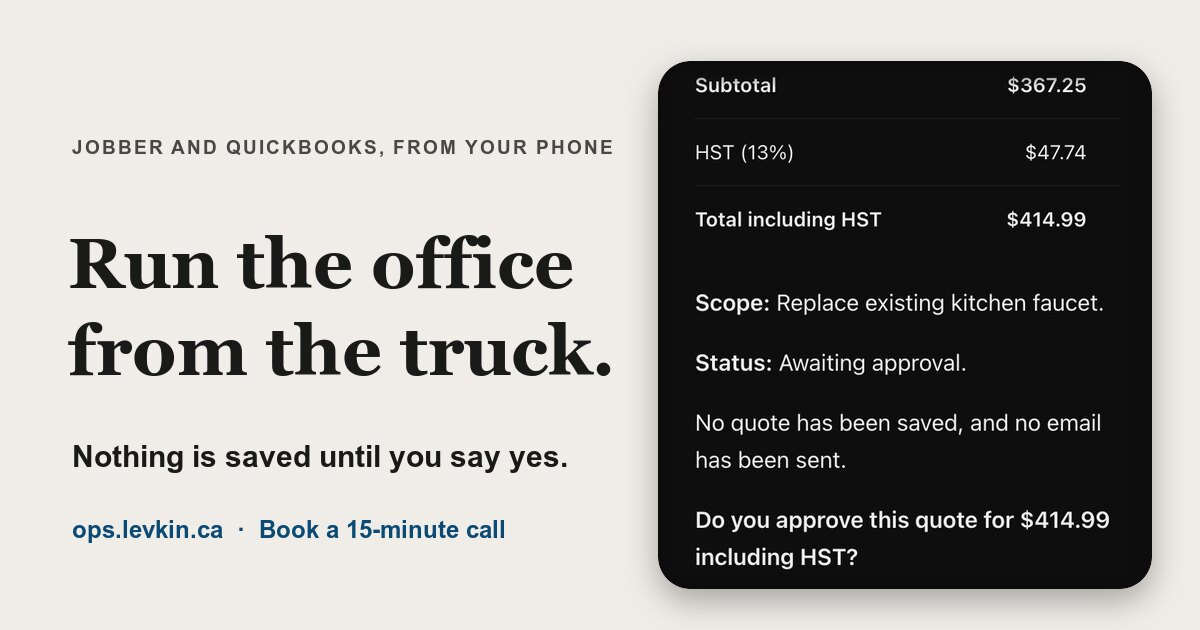
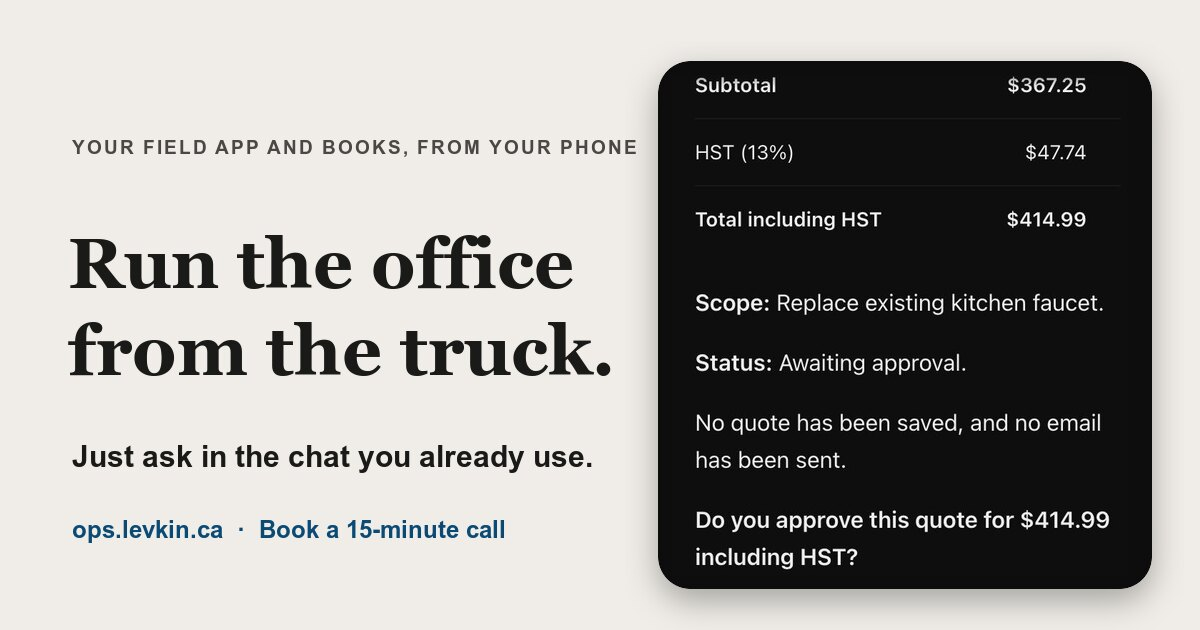
Pitch any field app and the chat they already use
Owners do not need to learn their field app; they ask in their chat.
Jobber and QuickBooks connect today and other field apps are built during
setup. ChatGPT is named as today's chat, with others on request.

Changed region(s): [[0.0617, 0.6937, 0.4933, 0.754], [0.0617, 0.2111, 0.5242, 0.2413]]

diff --git a/ops/index.html b/ops/index.html
@@ -4,9 +4,9 @@
   <meta charset="UTF-8" />
   <meta name="viewport" content="width=device-width, initial-scale=1.0, viewport-fit=cover" />
   <title>Run the office from the truck — Levkin</title>
-  <meta name="description" content="Quotes, the schedule, and who owes you, from your phone. Set up with your prices and your trade. Nothing is saved until you say yes. Book a 15-minute call." />
+  <meta name="description" content="Quotes, the schedule, and who owes you, from the chat app you already use. No one has to learn your field app. Nothing is saved until you say yes. Book a 15-minute call." />
   <meta property="og:title" content="Run the office from the truck" />
-  <meta property="og:description" content="See what you get, then book a 15-minute call. Set up with your prices and your trade." />
+  <meta property="og:description" content="No one has to learn your field app. Ask in the chat you already use. Set up with your prices and your trade." />
   <meta property="og:type" content="website" />
   <meta property="og:url" content="https://ops.levkin.ca/" />
   <meta property="og:site_name" content="Levkin Inc." />
@@ -36,10 +36,10 @@
   <main id="main">
     <section class="hero">
       <div class="hero-text">
-        <p class="eyebrow">Jobber and QuickBooks, from your phone</p>
+        <p class="eyebrow">Your field app and your books, from your phone</p>
         <h1>Run the office from the truck.</h1>
         <p class="lede">
-          Quotes, the schedule, and who owes you. You ask in ChatGPT. It uses the accounts you already have.
+          Quotes, the schedule, and who owes you. No one has to learn your field app. You just ask in the chat app you already use, and it works in the accounts you already have.
         </p>
         <p class="lede strong">Nothing is saved until you say yes.</p>
         <div class="actions">
@@ -75,7 +75,7 @@
         <article>
           <p class="kicker">Schedule</p>
           <h3>The day, without the laptop</h3>
-          <p>Who is next, what is still open, and what happened on the last visit. It reads Jobber. It does not book anything unless you say so.</p>
+          <p>Who is next, what is still open, and what happened on the last visit. It reads your field app. It does not book anything unless you say so.</p>
         </article>
         <article>
           <p class="kicker">Money</p>
@@ -85,7 +85,7 @@
         <article>
           <p class="kicker">Close-out</p>
           <h3>The job written up</h3>
-          <p>Notes and photos from the visit, and the invoice when the work is done. You check it. Then it goes into QuickBooks.</p>
+          <p>Notes and photos from the visit, and the invoice when the work is done. You check it. Then it goes into your books.</p>
         </article>
       </div>
     </section>
@@ -206,7 +206,11 @@
           </li>
           <li>
             <strong>Your software</strong>
-            Jobber and QuickBooks are what runs today. If you use something else, we talk about it on the call.
+            Jobber and QuickBooks connect today. Housecall Pro, ServiceTitan, or something else: we build that connection as part of setup.
+          </li>
+          <li>
+            <strong>Your chat</strong>
+            ChatGPT today. If your team lives in another chat app, ask us.
           </li>
         </ul>
       </div>
@@ -221,7 +225,7 @@
         </div>
         <div>
           <h3>What you keep paying for</h3>
-          <p>ChatGPT Business for each person who uses it, plus Jobber and QuickBooks Online. These stay in your name, on your own accounts.</p>
+          <p>Your chat app for each person who uses it (ChatGPT Business today), plus your field app and your accounting. These stay in your name, on your own accounts.</p>
         </div>
       </div>
     </section>

diff --git a/www/ops/index.html b/www/ops/index.html
@@ -4,9 +4,9 @@
   <meta charset="UTF-8" />
   <meta name="viewport" content="width=device-width, initial-scale=1.0, viewport-fit=cover" />
   <title>Run the office from the truck — Levkin</title>
-  <meta name="description" content="Quotes, the schedule, and who owes you, from your phone. Set up with your prices and your trade. Nothing is saved until you say yes. Book a 15-minute call." />
+  <meta name="description" content="Quotes, the schedule, and who owes you, from the chat app you already use. No one has to learn your field app. Nothing is saved until you say yes. Book a 15-minute call." />
   <meta property="og:title" content="Run the office from the truck" />
-  <meta property="og:description" content="See what you get, then book a 15-minute call. Set up with your prices and your trade." />
+  <meta property="og:description" content="No one has to learn your field app. Ask in the chat you already use. Set up with your prices and your trade." />
   <meta property="og:type" content="website" />
   <meta property="og:url" content="https://ops.levkin.ca/" />
   <meta property="og:site_name" content="Levkin Inc." />
@@ -37,10 +37,10 @@
   <main id="main">
     <section class="hero">
       <div class="hero-text">
-        <p class="eyebrow">Jobber and QuickBooks, from your phone</p>
+        <p class="eyebrow">Your field app and your books, from your phone</p>
         <h1>Run the office from the truck.</h1>
         <p class="lede">
-          Quotes, the schedule, and who owes you. You ask in ChatGPT. It uses the accounts you already have.
+          Quotes, the schedule, and who owes you. No one has to learn your field app. You just ask in the chat app you already use, and it works in the accounts you already have.
         </p>
         <p class="lede strong">Nothing is saved until you say yes.</p>
         <div class="actions">
@@ -76,7 +76,7 @@
         <article>
           <p class="kicker">Schedule</p>
           <h3>The day, without the laptop</h3>
-          <p>Who is next, what is still open, and what happened on the last visit. It reads Jobber. It does not book anything unless you say so.</p>
+          <p>Who is next, what is still open, and what happened on the last visit. It reads your field app. It does not book anything unless you say so.</p>
         </article>
         <article>
           <p class="kicker">Money</p>
@@ -86,7 +86,7 @@
         <article>
           <p class="kicker">Close-out</p>
           <h3>The job written up</h3>
-          <p>Notes and photos from the visit, and the invoice when the work is done. You check it. Then it goes into QuickBooks.</p>
+          <p>Notes and photos from the visit, and the invoice when the work is done. You check it. Then it goes into your books.</p>
         </article>
       </div>
     </section>
@@ -207,7 +207,11 @@
           </li>
           <li>
             <strong>Your software</strong>
-            Jobber and QuickBooks are what runs today. If you use something else, we talk about it on the call.
+            Jobber and QuickBooks connect today. Housecall Pro, ServiceTitan, or something else: we build that connection as part of setup.
+          </li>
+          <li>
+            <strong>Your chat</strong>
+            ChatGPT today. If your team lives in another chat app, ask us.
           </li>
         </ul>
       </div>
@@ -222,7 +226,7 @@
         </div>
         <div>
           <h3>What you keep paying for</h3>
-          <p>ChatGPT Business for each person who uses it, plus Jobber and QuickBooks Online. These stay in your name, on your own accounts.</p>
+          <p>Your chat app for each person who uses it (ChatGPT Business today), plus your field app and your accounting. These stay in your name, on your own accounts.</p>
         </div>
       </div>
     </section>
